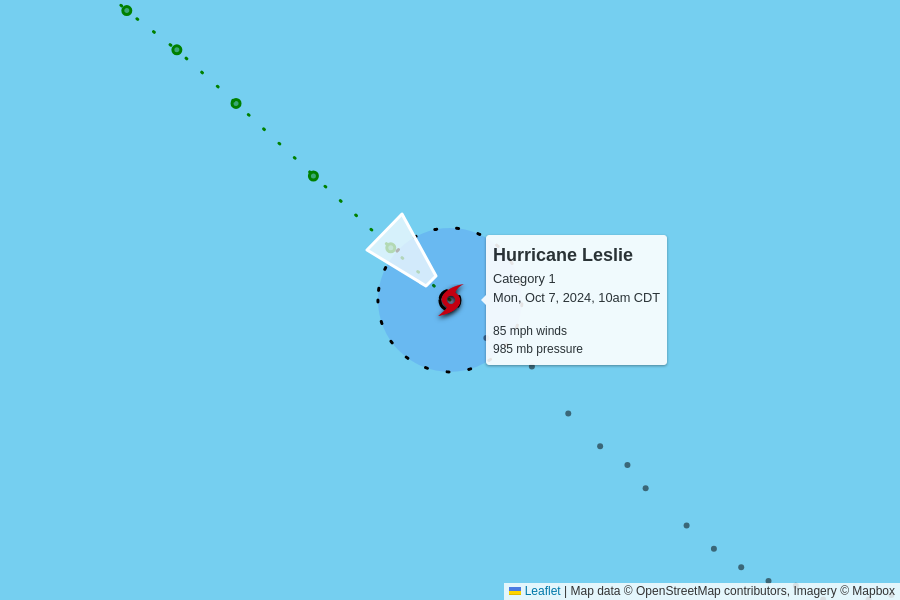
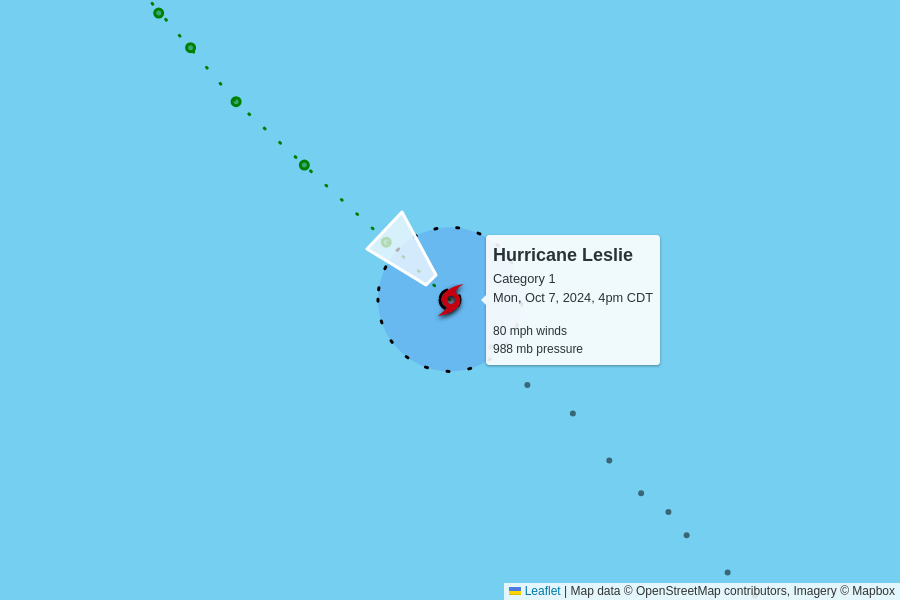
automatic update

diff --git a/docs/index.html b/docs/index.html
@@ -104,7 +104,7 @@
         <td colspan="6" class="storm category-5" >
           <h2>
             Hurricane Milton - Category 5
-            <p class="updated">last updated <span data-time>2024-10-07T18:00:00.000Z</span></p>
+            <p class="updated">last updated <span data-time>2024-10-07T21:00:00.000Z</span></p>
           </h2>
         </td>
       </tr>
@@ -119,12 +119,12 @@
       </tr>
       <tr>
         <td class="spacer"></td>
-        <td>175 mph<br>+15 mph since last update</td>
-        <td>911 mb<br>-14 mb since last update</td>
+        <td>180 mph<br>+5 mph since last update</td>
+        <td>905 mb<br>-6 mb since last update</td>
         <td>
-          9 mph to the east
+          10 mph to the east
           <br/>
-          <span style="display: inline-block; font-size: 1.5em; transform: rotate(100deg);">↑</span>
+          <span style="display: inline-block; font-size: 1.5em; transform: rotate(90deg);">↑</span>
         </td>
         <td><a href="https://raw.githubusercontent.com/mgwalker/atlantic-hurricanes/main/data/csv/AL142024.csv">AL142024.csv</a></td>
         <td><a href="https://www.nhc.noaa.gov/archive/2024/MILTON.shtml?">NHC advisories</a></td>
@@ -134,6 +134,50 @@
         <td colspan="5">
           <figure>
             <img src="AL142024.png">
+            <figcaption>
+              Map data &copy; <a href="https://www.openstreetmap.org/copyright">OpenStreetMap</a> contributors,
+              Imagery &copy; <a href="https://www.mapbox.com/">Mapbox</a> |
+              <a href="https://www.mapbox.com/map-feedback/" target="_blank">Improve this map</a>
+            </figcaption>
+          </figure>
+        </td>
+      </tr>
+      
+
+      <tr>
+        <td colspan="6" class="storm category-1" >
+          <h2>
+            Hurricane Leslie - Category 1
+            <p class="updated">last updated <span data-time>2024-10-07T21:00:00.000Z</span></p>
+          </h2>
+        </td>
+      </tr>
+      
+      <tr>
+        <th class="spacer"></th>
+        <th>wind speed</th>
+        <th>central pressure</th>
+        <th>movement</th>
+        <th>data (CSV)</th>
+        <th>National Hurricane Center</th>
+      </tr>
+      <tr>
+        <td class="spacer"></td>
+        <td>80 mph<br>-5 mph since last update</td>
+        <td>988 mb<br>+3 mb since last update</td>
+        <td>
+          14 mph to the northwest
+          <br/>
+          <span style="display: inline-block; font-size: 1.5em; transform: rotate(315deg);">↑</span>
+        </td>
+        <td><a href="https://raw.githubusercontent.com/mgwalker/atlantic-hurricanes/main/data/csv/AL132024.csv">AL132024.csv</a></td>
+        <td><a href="https://www.nhc.noaa.gov/archive/2024/LESLIE.shtml?">NHC advisories</a></td>
+      </tr>
+      <tr id="storm_AL132024" >
+        <td class="spacer">
+        <td colspan="5">
+          <figure>
+            <img src="AL132024.png">
             <figcaption>
               Map data &copy; <a href="https://www.openstreetmap.org/copyright">OpenStreetMap</a> contributors,
               Imagery &copy; <a href="https://www.mapbox.com/">Mapbox</a> |
@@ -156,50 +200,6 @@
         <td colspan="5">
           <figure>
             <img src="AL122024.png">
-            <figcaption>
-              Map data &copy; <a href="https://www.openstreetmap.org/copyright">OpenStreetMap</a> contributors,
-              Imagery &copy; <a href="https://www.mapbox.com/">Mapbox</a> |
-              <a href="https://www.mapbox.com/map-feedback/" target="_blank">Improve this map</a>
-            </figcaption>
-          </figure>
-        </td>
-      </tr>
-      
-
-      <tr>
-        <td colspan="6" class="storm category-1" >
-          <h2>
-            Hurricane Leslie - Category 1
-            <p class="updated">last updated <span data-time>2024-10-07T15:00:00.000Z</span></p>
-          </h2>
-        </td>
-      </tr>
-      
-      <tr>
-        <th class="spacer"></th>
-        <th>wind speed</th>
-        <th>central pressure</th>
-        <th>movement</th>
-        <th>data (CSV)</th>
-        <th>National Hurricane Center</th>
-      </tr>
-      <tr>
-        <td class="spacer"></td>
-        <td>85 mph<br>-5 mph since last update</td>
-        <td>985 mb<br>+5 mb since last update</td>
-        <td>
-          13 mph to the northwest
-          <br/>
-          <span style="display: inline-block; font-size: 1.5em; transform: rotate(315deg);">↑</span>
-        </td>
-        <td><a href="https://raw.githubusercontent.com/mgwalker/atlantic-hurricanes/main/data/csv/AL132024.csv">AL132024.csv</a></td>
-        <td><a href="https://www.nhc.noaa.gov/archive/2024/LESLIE.shtml?">NHC advisories</a></td>
-      </tr>
-      <tr id="storm_AL132024" >
-        <td class="spacer">
-        <td colspan="5">
-          <figure>
-            <img src="AL132024.png">
             <figcaption>
               Map data &copy; <a href="https://www.openstreetmap.org/copyright">OpenStreetMap</a> contributors,
               Imagery &copy; <a href="https://www.mapbox.com/">Mapbox</a> |
